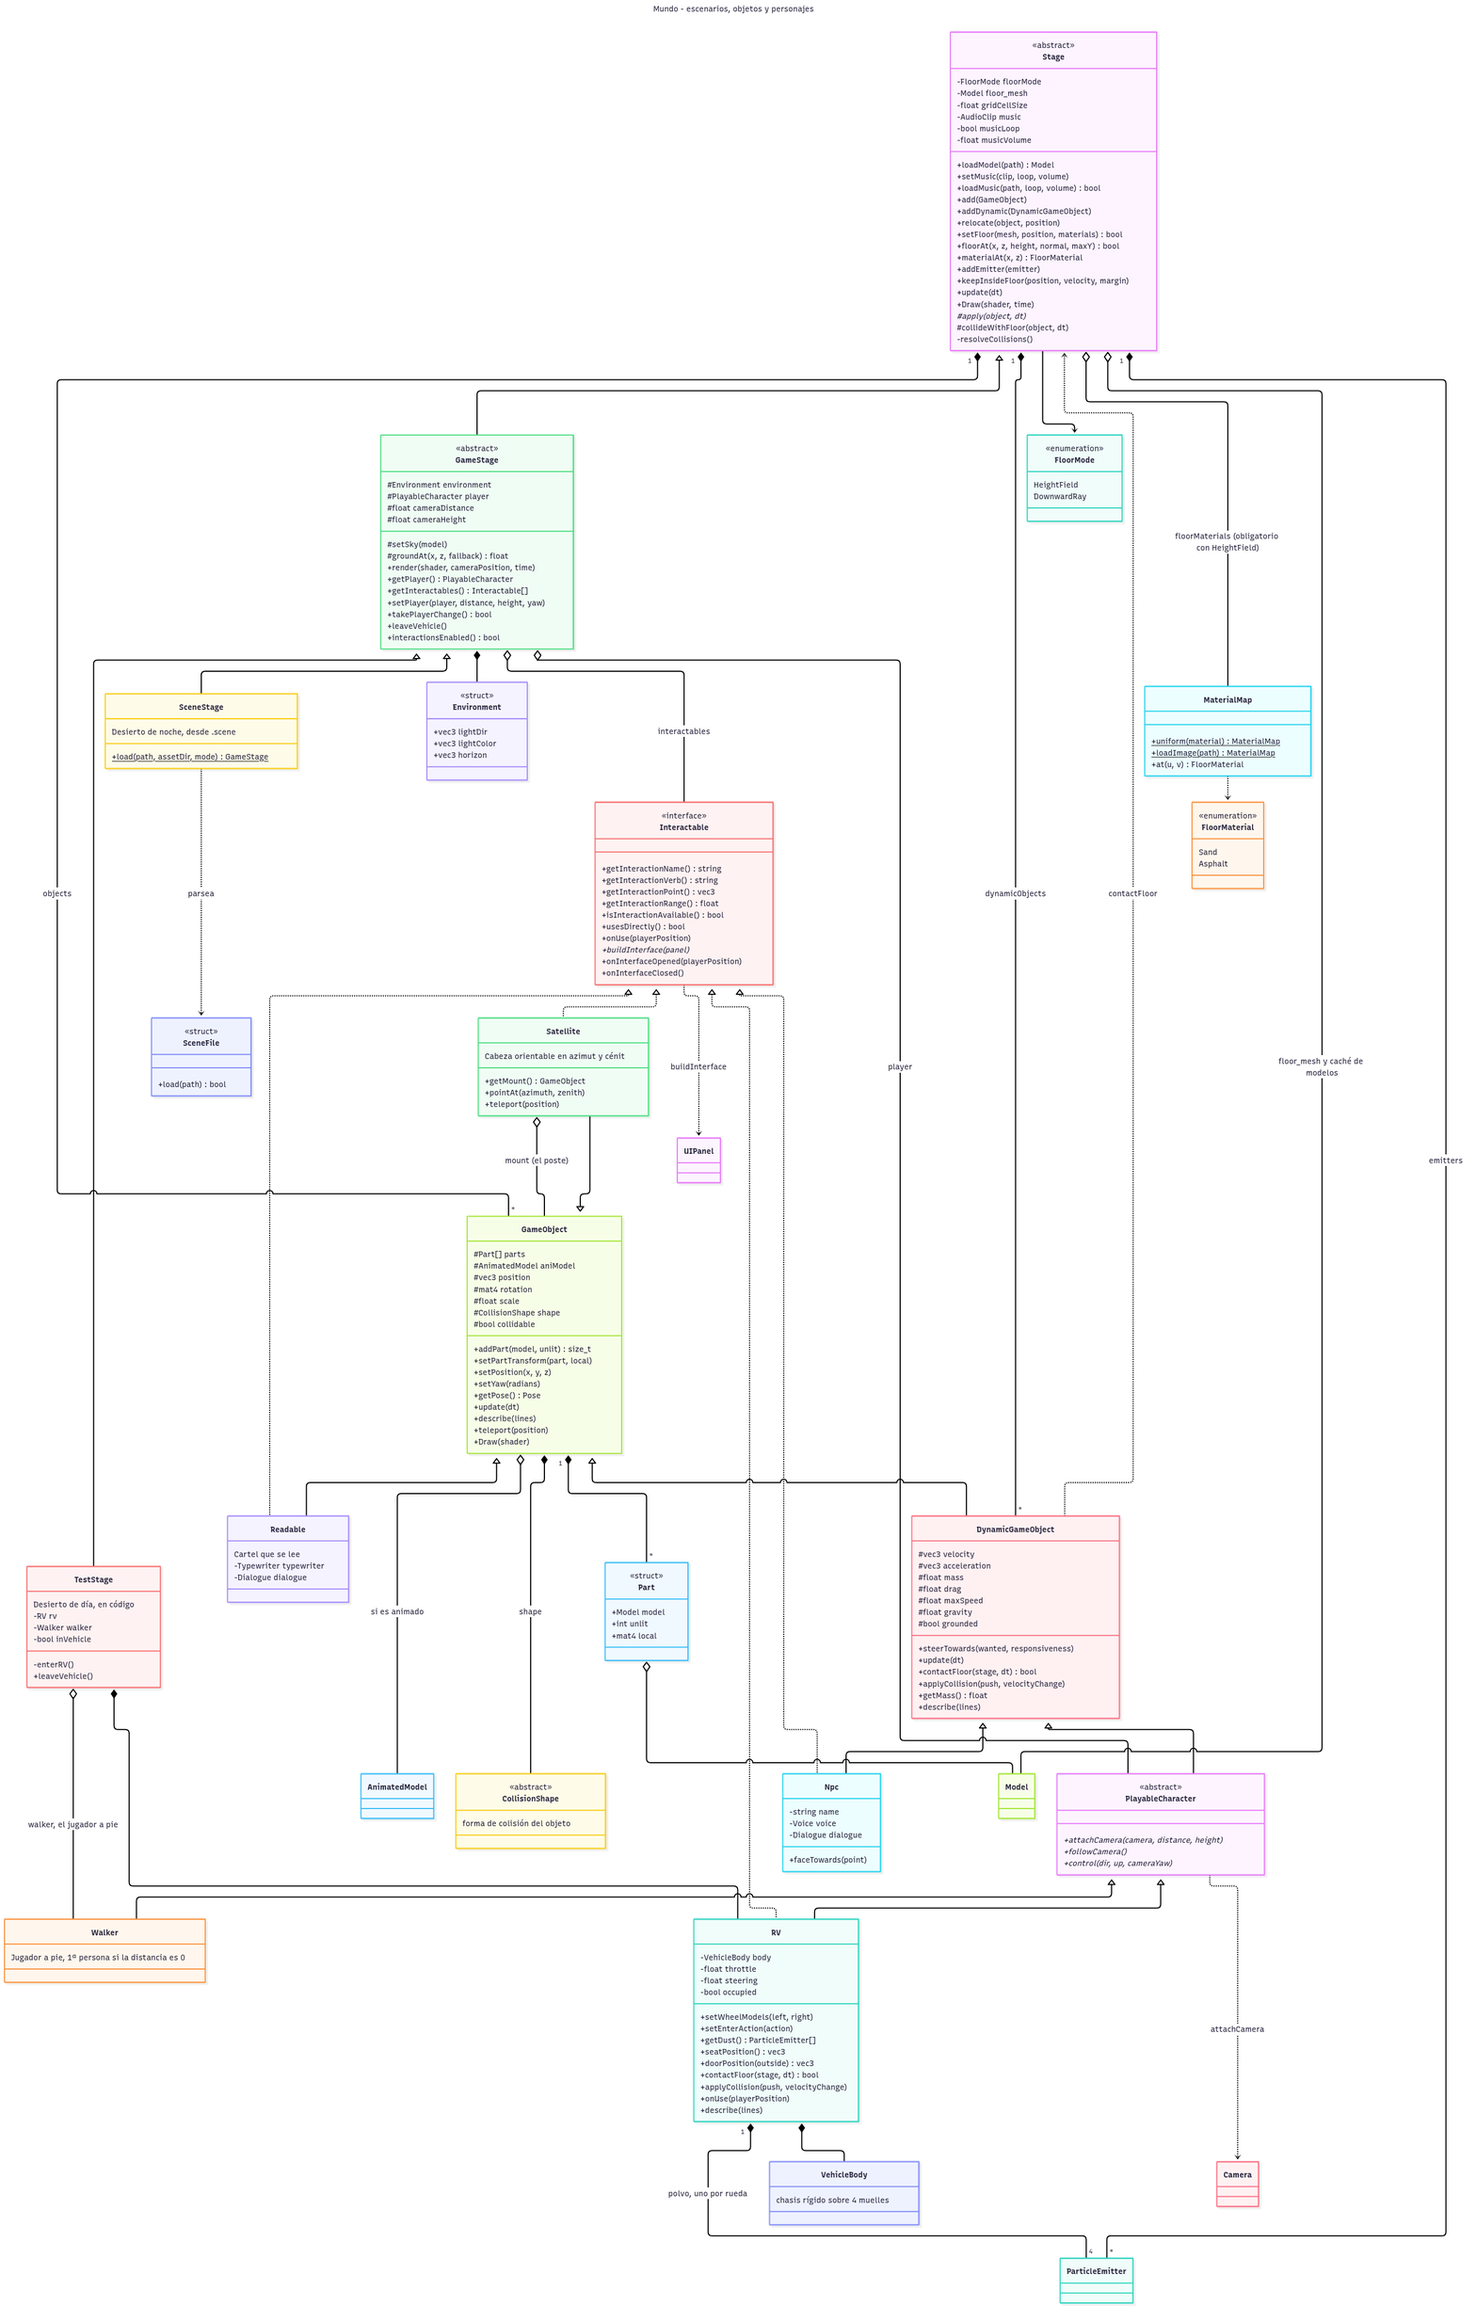
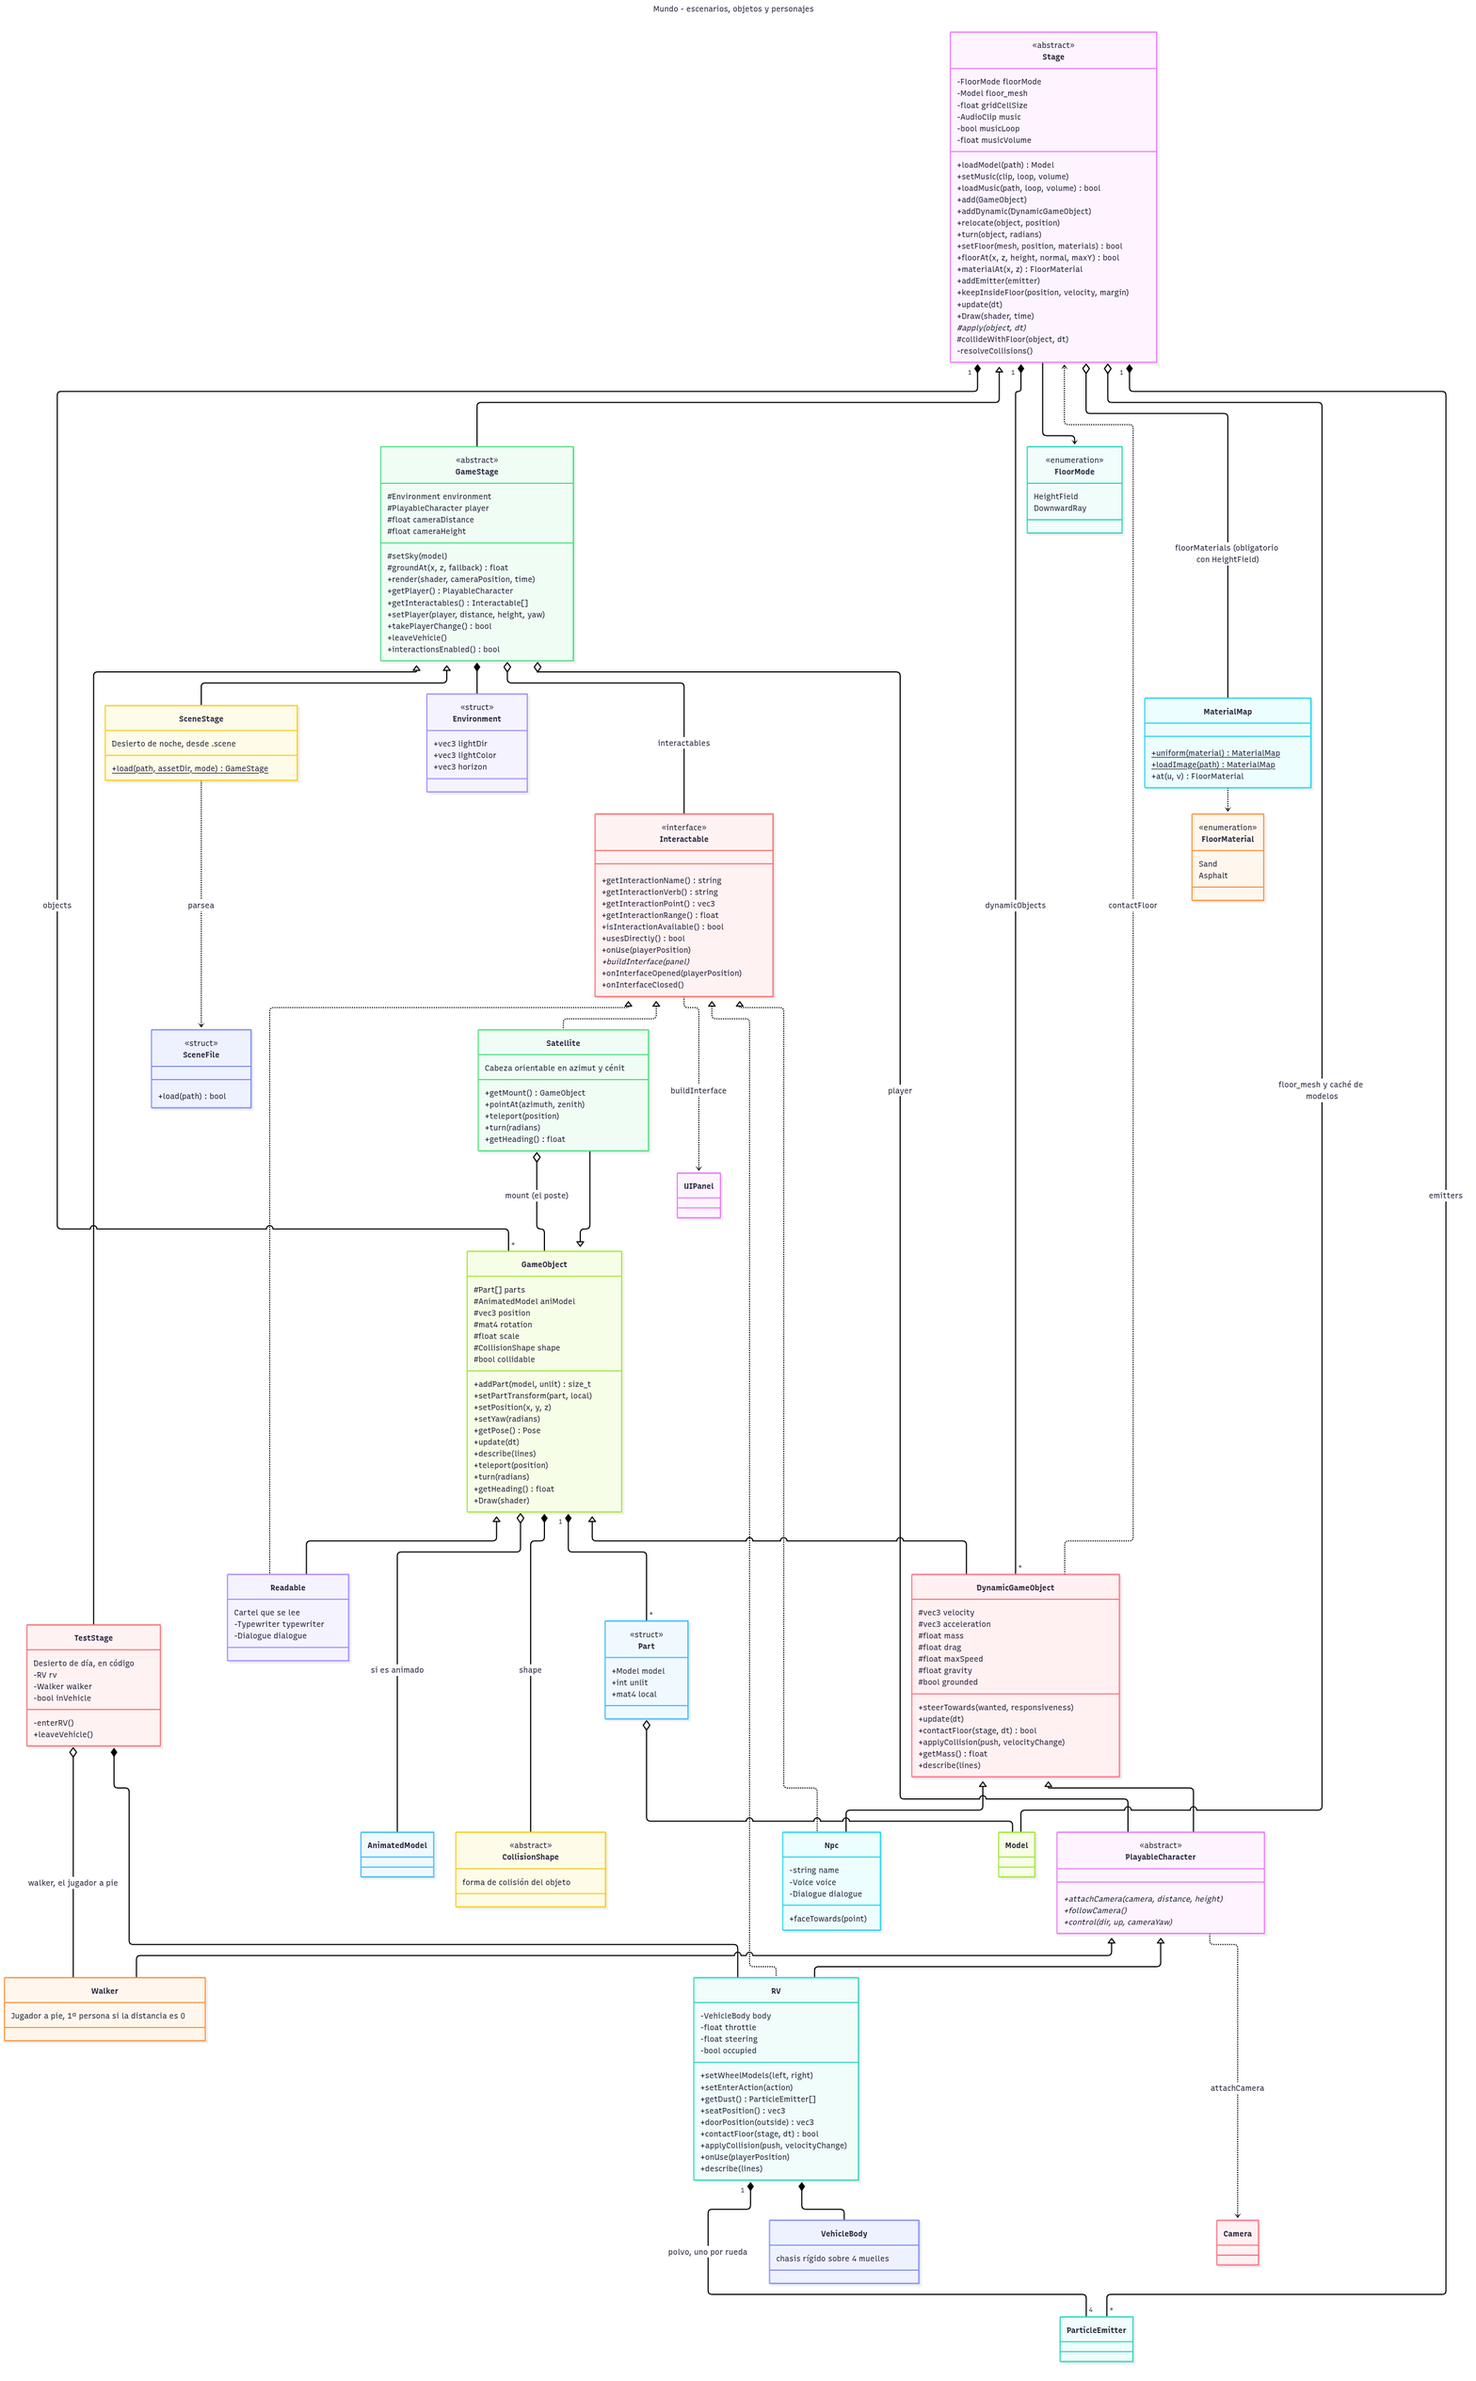
UPDATE: Add rotation when right clicking
You can now rotate objects on debug mode by use of right click.

diff --git a/src/debug/DebugSelector.cpp b/src/debug/DebugSelector.cpp
@@ -17,6 +17,7 @@ using namespace glm;
 #define VELOCITY_TIME 0.5f  // the velocity is drawn as 0.5 s of travel
 #define BOX_MARGIN 16.0f    // from the corner of the screen
 #define CROSSHAIR 8.0f      // half the size of the crosshair, pixels
+#define SNAP_STEP 15.0f     // degrees between the headings Shift snaps to
 
 namespace {
 const vec4 SHAPE_COLOR(1.0f, 0.55f, 0.15f, 1.0f);
@@ -51,6 +52,12 @@ void DebugSelector::setMode(Mode next) {
     ui.removeOverlay(this);
   mode = next;
   hasTarget = false;
+  turning = false;
+}
+
+bool DebugSelector::capturesMouse() const {
+  return mode == Mode::Place && !selected.expired() &&
+         glfwGetMouseButton(window, GLFW_MOUSE_BUTTON_RIGHT) == GLFW_PRESS;
 }
 
 void DebugSelector::clear() {
@@ -181,6 +188,11 @@ void DebugSelector::refresh(const GameStage &stage, Camera &camera) {
     info.push_back(hasTarget ? "Destino: " + textOf(target)
                              : "Destino: apunta al suelo");
     info.push_back("Ahora: " + textOf(object->getPosition()));
+    info.push_back(textFormat("Rumbo: %.1f grados%s",
+                              tidy(degrees(object->getHeading())),
+                              !turning   ? ""
+                              : snapping ? "  (girando de 15 en 15)"
+                                         : "  (girando)"));
     return;
   }
   object->describe(info);
@@ -221,8 +233,34 @@ void DebugSelector::update(GameStage &stage, Camera &camera, bool canPick) {
     if (canPick && leftPressed && hasTarget) {
       stage.relocate(*object, target);
       hasTarget = false; // it is there now: no outline until the next frame
-    } else if (canPick && rightPressed) {
-      setMode(Mode::Select);
+    }
+    // Right button held: the mouse turns the object (the camera doesn't, see
+    // capturesMouse). Moving right turns it clockwise seen from above, as the
+    // camera would turn. With Shift, the heading snaps to SNAP_STEP degrees
+    // (to the multiples of it, not steps from where it was).
+    double x, y;
+    glfwGetCursorPos(window, &x, &y);
+    snapping = glfwGetKey(window, GLFW_KEY_LEFT_SHIFT) == GLFW_PRESS ||
+               glfwGetKey(window, GLFW_KEY_RIGHT_SHIFT) == GLFW_PRESS;
+    if (object && canPick && right) {
+      if (!turning)
+        turnHeading = object->getHeading();
+      turnHeading -= camera.getSensitivity() * (float)(x - lastCursorX) *
+                     (turning ? 1.0f : 0.0f);
+      float wanted = turnHeading;
+      if (snapping) {
+        float step = radians(SNAP_STEP);
+        wanted = std::round(turnHeading / step) * step;
+      }
+      // The shortest way there
+      float change = std::remainder(wanted - object->getHeading(),
+                                    2.0f * pi<float>());
+      if (std::fabs(change) > 1e-5f)
+        stage.turn(*object, change);
+      turning = true;
+      lastCursorX = x;
+    } else {
+      turning = false;
     }
   }
   refresh(stage, camera);
@@ -295,7 +333,8 @@ void DebugSelector::draw(UIRenderer &renderer, float width,
   if (mode == Mode::Place) {
     text.push_back("MODO COLOCACION (" + controls.keyName(Action::DebugPlace) +
                    ": salir)");
-    text.push_back("Clic izq.: llevarlo a la cruz   Clic der.: elegir otro");
+    text.push_back("Clic izq.: llevarlo a la cruz   Clic der. + raton: girar");
+    text.push_back("(+ Mayus: de 15 en 15 grados)");
   } else {
     text.push_back("MODO SELECCION (" + controls.keyName(Action::DebugSelect) +
                    ": salir, " + controls.keyName(Action::DebugPlace) +
@@ -319,8 +358,10 @@ void DebugSelector::draw(UIRenderer &renderer, float width,
   renderer.frame(x, y, boxWidth, boxHeight, 1.0f, UITheme::BORDER);
   float ty = y + UITheme::PADDING;
   for (size_t i = 0; i < text.size(); i++) {
+    // The title, the help lines and, last, the selected object's name
+    bool name = !selectedName.empty() && i + 1 == text.size();
     renderer.text(x + UITheme::PADDING, ty, text[i],
-                  i == 2 ? TITLE_COLOR : (i == 0 ? UITheme::TEXT : UITheme::MUTED));
+                  name ? TITLE_COLOR : (i == 0 ? UITheme::TEXT : UITheme::MUTED));
     ty += lineHeight;
   }
   ty += UITheme::SPACING;

diff --git a/src/debug/DebugSelector.h b/src/debug/DebugSelector.h
@@ -31,8 +31,10 @@ class GameStage;
 // - Placement (Action::DebugPlace, 2 by default): the point of the floor the
 //   crosshair points at is the destination, where a white outline of the
 //   selected object is drawn; a left click moves the object there
-//   (Stage::relocate), keeping its height above the floor. A right click goes
-//   back to selecting.
+//   (Stage::relocate), keeping its height above the floor. Holding the right
+//   button and moving the mouse sideways turns it around the vertical
+//   (Stage::turn) instead of the camera (see capturesMouse); with Shift held
+//   as well, its heading snaps to multiples of 15 degrees.
 // Each key turns its mode on (or off, if it is the current one).
 //
 // It is not a panel, just an overlay (UIOverlay): the player keeps moving and
@@ -53,6 +55,11 @@ private:
   std::weak_ptr<GameObject> selected;
   std::string selectedName;
   std::vector<std::string> info; // what the box shows, refreshed each update
+  bool turning = false;          // Place: the right button turns the object
+  double lastCursorX = 0.0;      // while turning, on the previous update
+  float turnHeading = 0.0f;      // while turning, where the mouse has taken
+                                 // it (radians, before snapping)
+  bool snapping = false;         // while turning, Shift is held
   bool hasTarget = false;        // Place: the crosshair points at the floor
   glm::vec3 target;              // Place: where the object would go
 
@@ -78,6 +85,10 @@ public:
   void toggleSelect() { setMode(mode == Mode::Select ? Mode::Off : Mode::Select); }
   void togglePlace() { setMode(mode == Mode::Place ? Mode::Off : Mode::Place); }
   Mode getMode() const { return mode; }
+  // Whether the mouse turns the selected object now (placement mode, right
+  // button held): then the camera must not turn with it
+  // (Controller::setLookEnabled)
+  bool capturesMouse() const;
   // Forgets the selected object (e.g. its map is about to be replaced)
   void clear();
 

diff --git a/src/world/GameObject.cpp b/src/world/GameObject.cpp
@@ -53,6 +53,15 @@ void GameObject::setYaw(float radians) {
   rotation = glm::rotate(mat4(1.0f), radians, vec3(0.0f, 1.0f, 0.0f));
 }
 
+void GameObject::turn(float radians) {
+  rotation = glm::rotate(mat4(1.0f), radians, vec3(0.0f, 1.0f, 0.0f)) * rotation;
+}
+
+float GameObject::getHeading() const {
+  vec3 forward = vec3(rotation[2]);
+  return std::atan2(forward.x, forward.z);
+}
+
 void GameObject::update(double dt) {
   time += dt;
   if (aniModel)
@@ -91,8 +100,8 @@ void GameObject::describe(vector<string> &lines) const {
   lines.push_back("Posicion: " + textOf(position));
   // Heading: where its +z points, around +y (as setYaw); tilt: how far its
   // up axis leans from the vertical
-  vec3 forward = vec3(rotation[2]), up = vec3(rotation[1]);
-  float heading = degrees(std::atan2(forward.x, forward.z));
+  vec3 up = vec3(rotation[1]);
+  float heading = degrees(getHeading());
   float tilt = degrees(std::acos(clamp(up.y / length(up), -1.0f, 1.0f)));
   lines.push_back(textFormat("Rumbo: %.1f grados  Inclinacion: %.1f grados",
                              tidy(heading), tilt));

diff --git a/src/test.cpp b/src/test.cpp
@@ -513,8 +513,13 @@ int main(int argc, char **argv) {
 
   // Leave-vehicle key (with no panel open): the map puts the player back on
   // foot, if it was driving
+  // (not while the debug placement mode turns an object: Shift snaps it
+  // then)
   ui.bindKey([&controls]() { return controls.key(Action::LeaveVehicle); },
-             [&]() { stage->leaveVehicle(); });
+             [&]() {
+               if (!selector.capturesMouse())
+                 stage->leaveVehicle();
+             });
 
   // Main loop
   double lastTime = glfwGetTime();
@@ -546,6 +551,9 @@ int main(int argc, char **argv) {
       controller.attach(stage->getPlayer().get(), stage->getCameraDistance(),
                         stage->getCameraHeight(), stage->getCameraYaw());
     controller.setEnabled(!ui.hasPanels());
+    // In the debug placement mode, the right button turns the selected object
+    // with the mouse instead of the camera
+    controller.setLookEnabled(!selector.capturesMouse());
     controller.update();
     stage->update(dt);
     stage->getPlayer()->followCamera();

diff --git a/src/world/Stage.h b/src/world/Stage.h
@@ -66,6 +66,7 @@ private:
   void registerBody(GameObject *object, DynamicGameObject *dynamic);
   void placeStatic(int index); // puts a static body on the grid
   void rebuildStaticGrid();
+  void staticMoved(const GameObject &object); // rebuilds the grid if static
   bool cellRange(const GameObject &object, int &x0, int &z0, int &x1,
                  int &z1) const;
   void resolveCollisions();
@@ -135,6 +136,9 @@ public:
   // static object is put on the collision grid again where it now is (they
   // are only placed on it when added): use this, not setPosition, to move one.
   void relocate(GameObject &object, const glm::vec3 &position);
+  // Turns an object of the stage `radians` around the vertical
+  // (GameObject::turn); like relocate, a static one is put on the grid again
+  void turn(GameObject &object, float radians);
 
   const std::vector<std::shared_ptr<GameObject>> &getObjects() const {
     return objects;

diff --git a/src/input/Controller.h b/src/input/Controller.h
@@ -23,6 +23,7 @@ private:
   float pitch = 0.0f;   // camera tilt, radians (positive looks down)
 
   bool enabled = true;
+  bool lookEnabled = true; // false: the mouse doesn't turn the camera
   bool resync = false;  // next update only reads the cursor (after a pause)
 
 public:
@@ -40,6 +41,10 @@ public:
   // camera continues from where it was, ignoring where the cursor went.
   void setEnabled(bool enabled);
   bool isEnabled() const { return enabled; }
+  // While false the mouse doesn't turn the camera (its movement is used for
+  // something else, e.g. turning an object in the debug placement mode); the
+  // keys still move the character
+  void setLookEnabled(bool enable) { lookEnabled = enable; }
 };
 
 #endif

diff --git a/src/world/GameObject.h b/src/world/GameObject.h
@@ -87,6 +87,14 @@ public:
   virtual void teleport(const glm::vec3 &position) {
     this->position = position;
   }
+  // Turns the object `radians` around the world's vertical axis, through its
+  // position (positive: anticlockwise seen from above, like setYaw). Its tilt
+  // and any scale in the rotation are kept. As with teleport, objects of a
+  // stage are turned through it (Stage::turn).
+  virtual void turn(float radians);
+  // Which way it faces around the vertical, radians (as setYaw: 0 = its +z
+  // towards the world's +z); turn(r) adds r to it
+  virtual float getHeading() const;
 
   // Advances the object by dt seconds
   virtual void update(double dt);

diff --git a/src/world/Stage.cpp b/src/world/Stage.cpp
@@ -381,6 +381,15 @@ void Stage::rebuildStaticGrid() {
 
 void Stage::relocate(GameObject &object, const vec3 &position) {
   object.teleport(position);
+  staticMoved(object);
+}
+
+void Stage::turn(GameObject &object, float radians) {
+  object.turn(radians);
+  staticMoved(object);
+}
+
+void Stage::staticMoved(const GameObject &object) {
   // A static one (or its parts that are objects of their own, like the post
   // of a satellite) may now be in other cells: they are few, place them all
   // again

diff --git a/src/entities/Satellite.h b/src/entities/Satellite.h
@@ -43,6 +43,10 @@ public:
   std::shared_ptr<GameObject> getMount() const { return mount; }
   // The post goes with it
   void teleport(const glm::vec3 &position) override;
+  // Turns its azimuth (and the target's) at once; the post stays
+  void turn(float radians) override;
+  // From its azimuth (its rotation also has the tilt of the zenith)
+  float getHeading() const override;
 
   // Target orientation; the azimuth is wrapped and the zenith clamped
   void pointAt(float azimuth, float zenith);

diff --git a/src/entities/RV.h b/src/entities/RV.h
@@ -103,6 +103,8 @@ public:
   bool contactFloor(const Stage &stage, double dt) override;
   // Its body is placed there too, upright, keeping its heading and at rest
   void teleport(const glm::vec3 &position) override;
+  // Same: its body is placed upright, at rest, with the new heading
+  void turn(float radians) override;
   // Adds the vehicle's own physics: speed, spin, wheels, occupied
   void describe(std::vector<std::string> &lines) const override;
 };

diff --git a/src/entities/Satellite.cpp b/src/entities/Satellite.cpp
@@ -143,3 +143,13 @@ void Satellite::teleport(const vec3 &position) {
   base += delta;
   mount->translate(delta);
 }
+
+void Satellite::turn(float radians) {
+  // The azimuth goes clockwise seen from above
+  float degrees = glm::degrees(radians);
+  azimuth = wrap360(azimuth - degrees);
+  targetAzimuth = wrap360(targetAzimuth - degrees);
+  applyOrientation();
+}
+
+float Satellite::getHeading() const { return -glm::radians(azimuth); }

diff --git a/src/input/Controls.cpp b/src/input/Controls.cpp
@@ -149,7 +149,7 @@ const vector<Controls::Fixed> &Controls::fixedControls() {
       {"Camara", "Mirar alrededor", "Raton"},
       {"Menus", "Menu de pausa / atras / cerrar panel", "Esc"},
       {"Menus", "Botones y deslizadores", "Clic izquierdo"},
-      {"Menus", "Elegir (1) / colocar (2) objeto", "Clic izq."},
+      {"Menus", "Objeto: elegir, mover, girar", "Clic izq./der."},
   };
   return fixed;
 }
